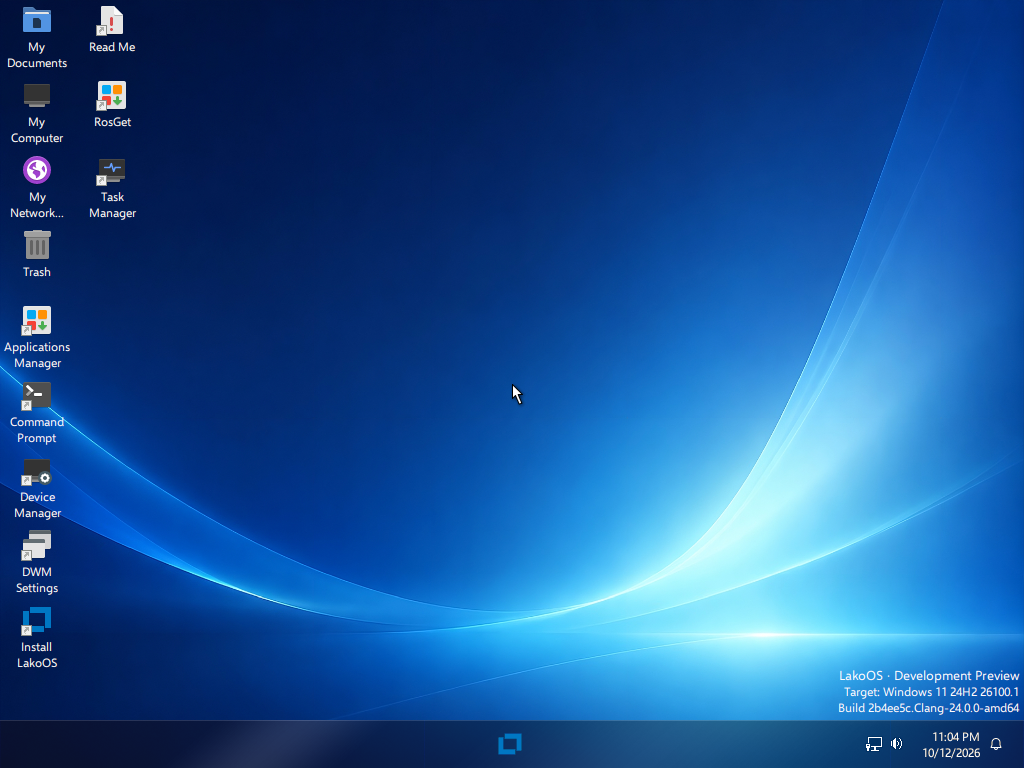
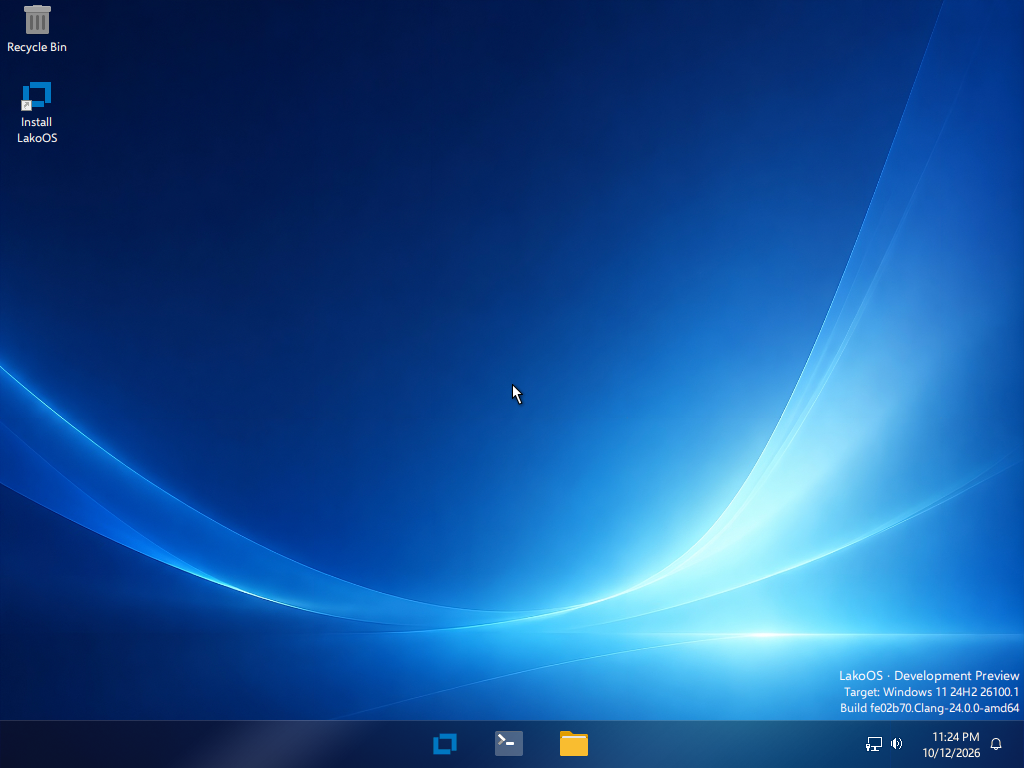
Shell names and defaults closer to Windows 11
- File Explorer, This PC, Documents, Network and Recycle Bin names
- clean desktop with only the Recycle Bin and the installer shortcut
- File Explorer and Command Prompt pinned to the taskbar
- explorer.exe uses the folder icon

diff --git a/site/.ipynb_checkpoints/index-checkpoint.html b/site/.ipynb_checkpoints/index-checkpoint.html
@@ -1,0 +1,227 @@
+<!doctype html>
+<html lang="en">
+<head>
+<meta charset="utf-8">
+<meta name="viewport" content="width=device-width,initial-scale=1">
+<title>LakoOS — a free NT operating system with a familiar desktop</title>
+<meta name="description" content="LakoOS is a free, open-source NT-based operating system with a centered Start menu, a modern File Explorer and the same folders and program names you know.">
+<meta property="og:title" content="LakoOS — a free NT operating system with a familiar desktop">
+<meta property="og:image" content="assets/screens/start-win11.png">
+<link rel="icon" type="image/svg+xml" href="assets/logo-mark.svg">
+<link rel="stylesheet" href="assets/style.css">
+</head>
+<body>
+<header class="nav"><div class="wrap">
+  <a class="brand" href="index.html"><img src="assets/logo-mark.svg" alt="">LakoOS</a>
+  <nav><a href="features.html" data-i18n="nav.features">Features</a><a href="download.html" data-i18n="nav.download">Download</a><a href="docs.html" data-i18n="nav.docs">Docs</a><a href="compatibility.html" data-i18n="nav.compat">Compatibility</a><a href="about.html" data-i18n="nav.about">About</a></nav>
+  <span class="sp"></span>
+  <button class="icon-btn lang" id="lang" aria-label="Language">RU</button>
+  <button class="icon-btn" id="theme" aria-label="Theme">&#9790;</button>
+  <a class="btn primary sm" href="download.html" data-i18n="nav.get">Get LakoOS</a>
+</div></header>
+<main>
+<section class="hero">
+  <span class="blob b1"></span><span class="blob b2"></span><span class="blob b3"></span>
+  <div class="wrap center">
+    <span class="pill"><i></i><span data-i18n="hero.pill">Development preview</span></span>
+    <h1><span data-i18n="hero.t1">A free NT.</span><br><span class="grad" data-i18n="hero.t2">With a familiar desktop.</span></h1>
+    <p class="lead" data-i18n="hero.lead">LakoOS is a free operating system on the NT architecture: a centered Start menu, a modern File Explorer, the same folders and the same program names.</p>
+    <div class="cta">
+      <a class="btn primary" href="download.html" data-i18n="hero.dl">Download LakoOS</a>
+      <a class="btn ghost" href="https://github.com/LakoMoor/LakoOS" data-i18n="hero.gh">View on GitHub</a>
+    </div>
+    <p class="fine" data-i18n="hero.fine">64-bit (amd64) · QEMU, VirtualBox, Hyper-V · free software under the GNU GPL</p>
+    <div class="device reveal">
+      <div class="bar"><i></i><i></i><i></i><span>LakoOS</span></div>
+      <img src="assets/screens/desktop.png" alt="The LakoOS desktop with a centered taskbar">
+    </div>
+  </div>
+</section>
+
+<section id="features">
+  <div class="wrap">
+    <div class="center">
+      <span class="eyebrow" data-i18n="f.eyebrow">What is inside</span>
+      <h2 data-i18n="f.title">Everything in its place</h2>
+      <p class="sub" data-i18n="f.sub">A familiar shell, familiar programs and the disk layout you expect.</p>
+    </div>
+    <div class="bento">
+      <div class="tile s4 hl reveal">
+        <div class="ic"><svg viewBox="0 0 24 24"><rect x="3" y="4" width="18" height="13" rx="2"/><path d="M8 21h8M12 17v4"/></svg></div>
+        <h3>Centered taskbar and modern Start</h3>
+        <p>Start and your running apps sit in the middle, with the notification area on the right. Pinned grid, recommendations and search in one panel.</p>
+      </div>
+      <div class="tile s2 reveal">
+        <div class="ic"><svg viewBox="0 0 24 24"><path d="M3 7a2 2 0 0 1 2-2h4l2 2h8a2 2 0 0 1 2 2v8a2 2 0 0 1-2 2H5a2 2 0 0 1-2-2z"/></svg></div>
+        <h3>File Explorer</h3>
+        <p>Ribbon, Quick access, This PC. It is <code>explorer.exe</code>.</p>
+      </div>
+      <div class="tile s2 reveal">
+        <div class="ic"><svg viewBox="0 0 24 24"><circle cx="12" cy="12" r="4"/><path d="M12 2v3M12 19v3M2 12h3M19 12h3M4.9 4.9l2.1 2.1M17 17l2.1 2.1M4.9 19.1 7 17M17 7l2.1-2.1"/></svg></div>
+        <h3>Light and dark</h3>
+        <p>Fluent-style icons and colors that follow the system theme.</p>
+      </div>
+      <div class="tile s2 reveal">
+        <div class="ic"><svg viewBox="0 0 24 24"><path d="M4 6h16M4 12h16M4 18h10"/></svg></div>
+        <h3>Same layout on disk</h3>
+        <p><code>Windows</code>, <code>Program Files</code>, <code>ProgramData</code>, <code>Users</code>.</p>
+      </div>
+      <div class="tile s2 reveal">
+        <div class="ic"><svg viewBox="0 0 24 24"><path d="m8 8-4 4 4 4M16 8l4 4-4 4M14 5l-4 14"/></svg></div>
+        <h3>Open source</h3>
+        <p>Built from the LiberNT and ReactOS code under the GNU GPL.</p>
+      </div>
+      <div class="tile s2 reveal">
+        <div class="ic"><svg viewBox="0 0 24 24"><rect x="3" y="3" width="7" height="7" rx="1.5"/><rect x="14" y="3" width="7" height="7" rx="1.5"/><rect x="3" y="14" width="7" height="7" rx="1.5"/><path d="M14 17.5h7M17.5 14v7"/></svg></div>
+        <h3>Two Start styles</h3>
+        <p>Centered grid, or the left-aligned list with tiles. Switch with one setting.</p>
+      </div>
+    </div>
+  </div>
+</section>
+
+<section id="desktop" class="alt">
+  <div class="wrap">
+    <div class="center">
+      <span class="eyebrow" data-i18n="d.eyebrow">Desktop</span>
+      <h2 data-i18n="d.title">See how it looks</h2>
+      <p class="sub" data-i18n="d.sub">Flip through the screens: Start, File Explorer, Control Panel and the command line.</p>
+    </div>
+    <div class="tabs" role="tablist">
+      <button class="tab" role="tab" data-k="start11">Start</button>
+      <button class="tab" role="tab" data-k="start10">Start (list and tiles)</button>
+      <button class="tab" role="tab" data-k="explorer">File Explorer</button>
+      <button class="tab" role="tab" data-k="control">Control Panel</button>
+      <button class="tab" role="tab" data-k="cmd">Command Prompt</button>
+    </div>
+    <div class="tabpanel">
+      <div>
+        <h3 id="tabh"></h3>
+        <p id="tabp"></p>
+        <ul id="tabul"></ul>
+      </div>
+      <div class="shot"><img id="tabimg" src="assets/screens/start-win11.png" alt="LakoOS screenshot"></div>
+    </div>
+  </div>
+</section>
+
+<section id="names">
+  <div class="wrap">
+    <div class="two">
+      <div>
+        <span class="eyebrow" data-i18n="n.eyebrow">Structure</span>
+        <h2 data-i18n="n.title">The same folders. The same names.</h2>
+        <p class="sub" data-i18n="n.sub">Folders and executables are named as in Windows 11, so scripts, shortcuts and habits keep working.</p>
+        <table>
+          <tr><th>Program</th><th>File</th><th>Location</th></tr>
+          <tr><td>File Explorer</td><td><code>explorer.exe</code></td><td>Windows</td></tr>
+          <tr><td>Task Manager</td><td><code>taskmgr.exe</code></td><td>System32</td></tr>
+          <tr><td>Control Panel</td><td><code>control.exe</code></td><td>System32</td></tr>
+          <tr><td>Command Prompt</td><td><code>cmd.exe</code></td><td>System32</td></tr>
+          <tr><td>Registry Editor</td><td><code>regedit.exe</code></td><td>Windows</td></tr>
+          <tr><td>Console</td><td><code>mmc.exe</code></td><td>System32</td></tr>
+        </table>
+      </div>
+      <div class="tree reveal"><b>C:\</b>
+<s>├─</s> <em>Windows</em>
+<s>│  ├─</s> explorer.exe
+<s>│  ├─</s> regedit.exe
+<s>│  ├─</s> System32
+<s>│  │  ├─</s> cmd.exe
+<s>│  │  ├─</s> taskmgr.exe
+<s>│  │  ├─</s> control.exe
+<s>│  │  └─</s> mmc.exe
+<s>│  └─</s> SysWOW64
+<s>├─</s> <em>Program Files</em>
+<s>├─</s> <em>Program Files (x86)</em>
+<s>├─</s> <em>ProgramData</em>
+<s>└─</s> <em>Users</em>
+<s>   ├─</s> Default
+<s>   └─</s> Public</div>
+    </div>
+  </div>
+</section>
+
+<section id="download" class="alt">
+  <div class="wrap">
+    <div class="center">
+      <span class="eyebrow" data-i18n="dl.eyebrow">Download</span>
+      <h2 data-i18n="dl.title">Choose how to try it</h2>
+      <p class="sub" data-i18n="dl.sub">Everything is free. A virtual machine is the best way to start.</p>
+    </div>
+    <div class="dl">
+      <div class="dcard feat reveal">
+        <div class="ic"><svg viewBox="0 0 24 24"><path d="M12 3v12m0 0-4-4m4 4 4-4M4 19h16"/></svg></div>
+        <h3>Live ISO</h3>
+        <p>Boots straight to the desktop from a virtual DVD. Nothing is written to your disk.</p>
+        <div class="meta">LakoOS-amd64-livecd.iso · 64-bit</div>
+        <a class="btn primary" href="https://github.com/LakoMoor/LakoOS/releases/latest/download/LakoOS-amd64-livecd.iso">Download ISO</a>
+      </div>
+      <div class="dcard reveal">
+        <div class="ic"><svg viewBox="0 0 24 24"><rect x="3" y="5" width="18" height="12" rx="2"/><path d="M8 21h8"/></svg></div>
+        <h3>All releases</h3>
+        <p>Setup images, virtual disks and checksums for every version.</p>
+        <div class="meta">ISO · IMG · VHD</div>
+        <a class="btn ghost" href="https://github.com/LakoMoor/LakoOS/releases">Open releases</a>
+      </div>
+      <div class="dcard reveal">
+        <div class="ic"><svg viewBox="0 0 24 24"><path d="m8 8-4 4 4 4M16 8l4 4-4 4"/></svg></div>
+        <h3>Build from source</h3>
+        <p>The build environment sets itself up from scratch on Linux, macOS and Windows.</p>
+        <div class="meta">buildenv/build.sh · build.ps1</div>
+        <a class="btn ghost" href="docs.html#build">Show commands</a>
+      </div>
+    </div>
+
+    <div class="codebox" id="qemu"><button class="copy">Copy</button><pre>qemu-system-x86_64 -m 2048 -smp 4 \
+  -cdrom LakoOS-amd64-livecd.iso -boot d \
+  -vga std -usb -device usb-tablet</pre></div>
+    <div class="codebox" id="build"><button class="copy">Copy</button><pre id="buildcmd">git clone https://github.com/LakoMoor/LakoOS.git
+cd LakoOS
+./buildenv/build.sh</pre></div>
+
+    <h2 style="margin-top:64px;font-size:30px" data-i18n="rq.title">System requirements</h2>
+    <div class="req">
+      <div><b>CPU</b><span>64-bit x86, 2 cores</span></div>
+      <div><b>Memory</b><span>2 GB RAM</span></div>
+      <div><b>Storage</b><span>1 GB live · 8 GB install</span></div>
+      <div><b>Graphics</b><span>1024×768 VGA</span></div>
+    </div>
+  </div>
+</section>
+
+<section id="faq">
+  <div class="wrap">
+    <h2 class="center" data-i18n="faq.title">Questions</h2>
+    <div class="faq" style="margin-top:36px">
+      <details><summary>Is LakoOS Windows?</summary><p>No. LakoOS is an independent, free operating system built on the NT architecture. It is not made by, affiliated with or endorsed by Microsoft. It follows the Windows folder layout and file names so people and programs feel at home.</p></details>
+      <details><summary>Will my Windows programs run?</summary><p>Many Win32 programs run and compatibility keeps improving. This is a development preview, so expect gaps, especially with the newest applications.</p></details>
+      <details><summary>Can I use it every day?</summary><p>Not yet. Try it in a virtual machine and report what breaks in GitHub Issues.</p></details>
+      <details><summary>How do I switch the Start style?</summary><p>Set <code>ShellStyle</code> to 10 or 11 under <code>HKCU\Software\Microsoft\Windows\CurrentVersion\Explorer\Advanced</code>, and <code>TaskbarAl</code> to 0 or 1 for taskbar alignment. It applies the next time you open Start.</p></details>
+      <details><summary>Where does the code come from?</summary><p>LakoOS is a fork of LiberNT, which is a fork of ReactOS. The original authors are credited in the repository and the GPL notices are kept.</p></details>
+    </div>
+  </div>
+</section>
+
+<section style="padding-top:0">
+  <div class="wrap">
+    <div class="band reveal">
+      <h2 data-i18n="band.t">Try LakoOS today</h2>
+      <p data-i18n="band.p">Download the image, start it in a virtual machine and tell us what you find.</p>
+      <a class="btn" href="https://github.com/LakoMoor/LakoOS/releases/latest/download/LakoOS-amd64-livecd.iso">Download ISO</a>
+    </div>
+  </div>
+</section>
+</main>
+<footer><div class="wrap">
+  <div class="cols">
+    <div><a class="brand" href="index.html" style="margin-bottom:10px"><img src="assets/logo-mark.svg" alt="">LakoOS</a>A free NT operating system with a familiar desktop.</div>
+    <div><h4>Product</h4><a href="features.html">Features</a><a href="compatibility.html">Compatibility</a><a href="download.html">Download</a></div>
+    <div><h4>Learn</h4><a href="docs.html">Documentation</a><a href="docs.html#build">Build from source</a><a href="docs.html#settings">Settings</a></div>
+    <div><h4>Project</h4><a href="https://github.com/LakoMoor/LakoOS">GitHub</a><a href="https://github.com/LakoMoor/LakoOS/issues">Issues</a><a href="about.html">About</a></div>
+  </div>
+  <div class="legal">LakoOS is free software under the GNU GPL. Windows is a trademark of Microsoft Corporation. LakoOS is not affiliated with, endorsed by or sponsored by Microsoft. Based on LiberNT and ReactOS.</div>
+</div></footer>
+<script src="assets/app.js"></script>
+</body>
+</html>
